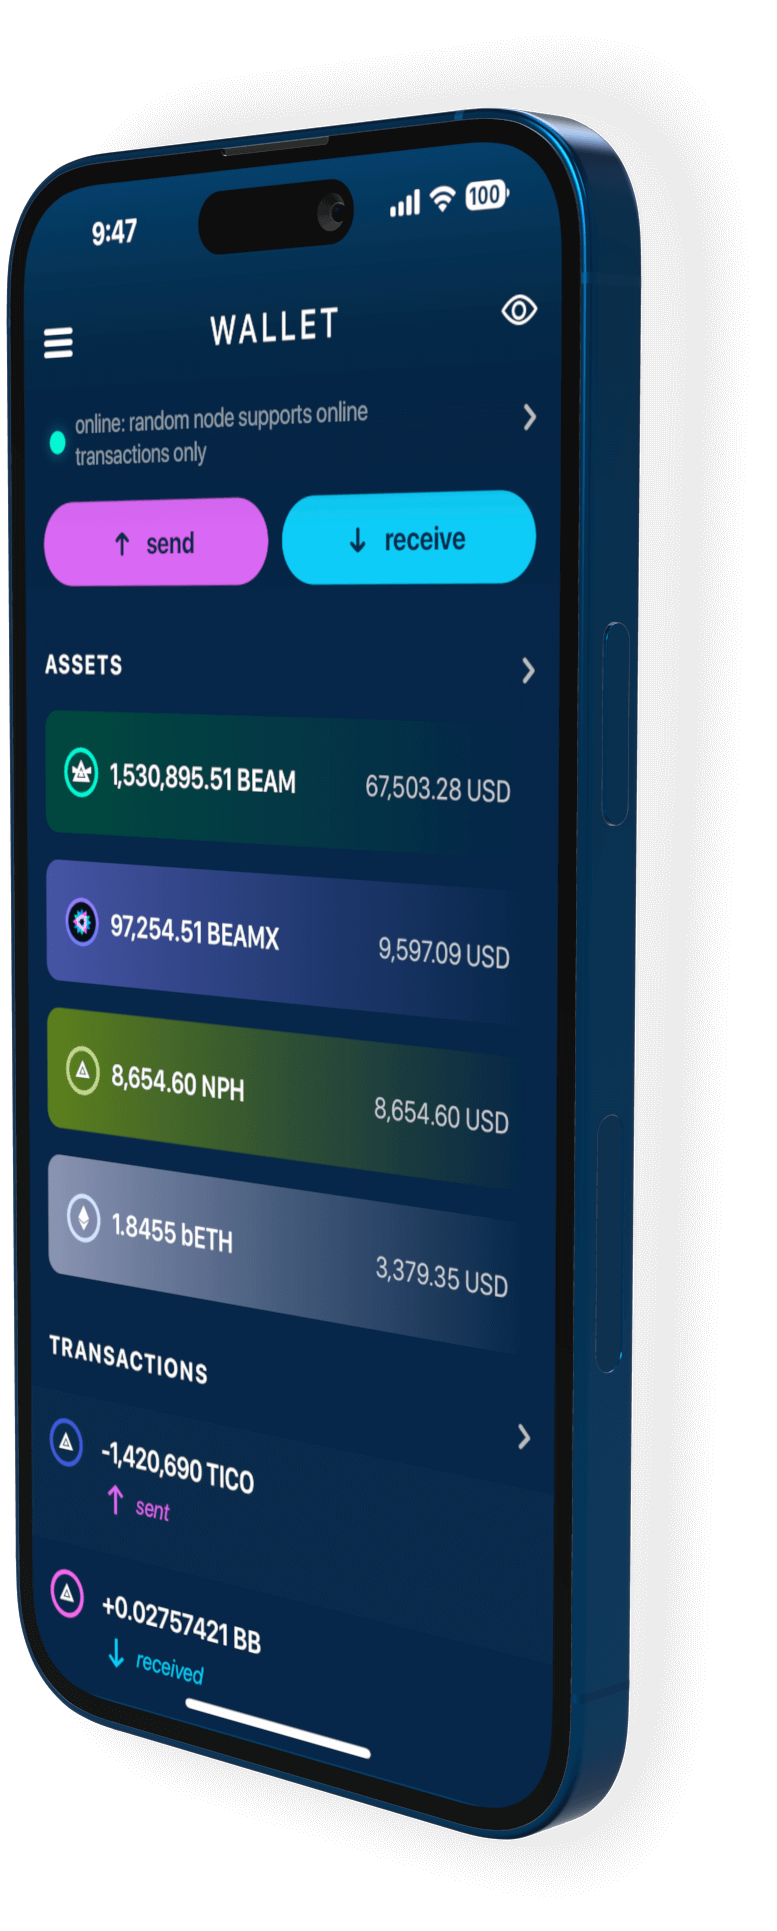
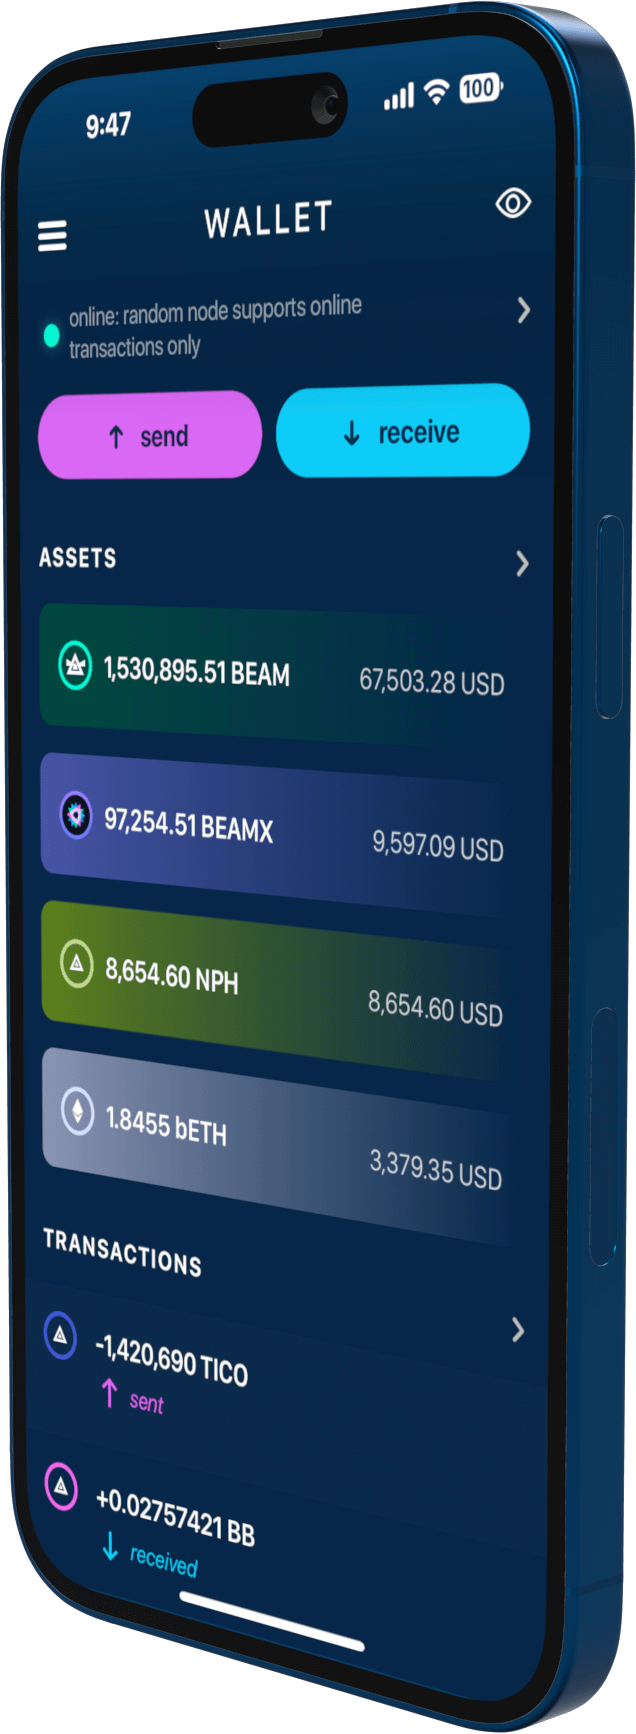
fix: remove shadow from mobile mockup

diff --git a/components/hero.vue b/components/hero.vue
@@ -95,7 +95,7 @@
             />
           </div>
 
-          <div class="relative w-[389px] h-[966px] min-w-[389px] -right-[30px]">
+          <div class="relative w-[319px] h-[869px] min-w-[319px] top-[90px]">
             <LayoutPicture
               src="/assets/hero/mobile.png"
               alt="Beam for iOS"
